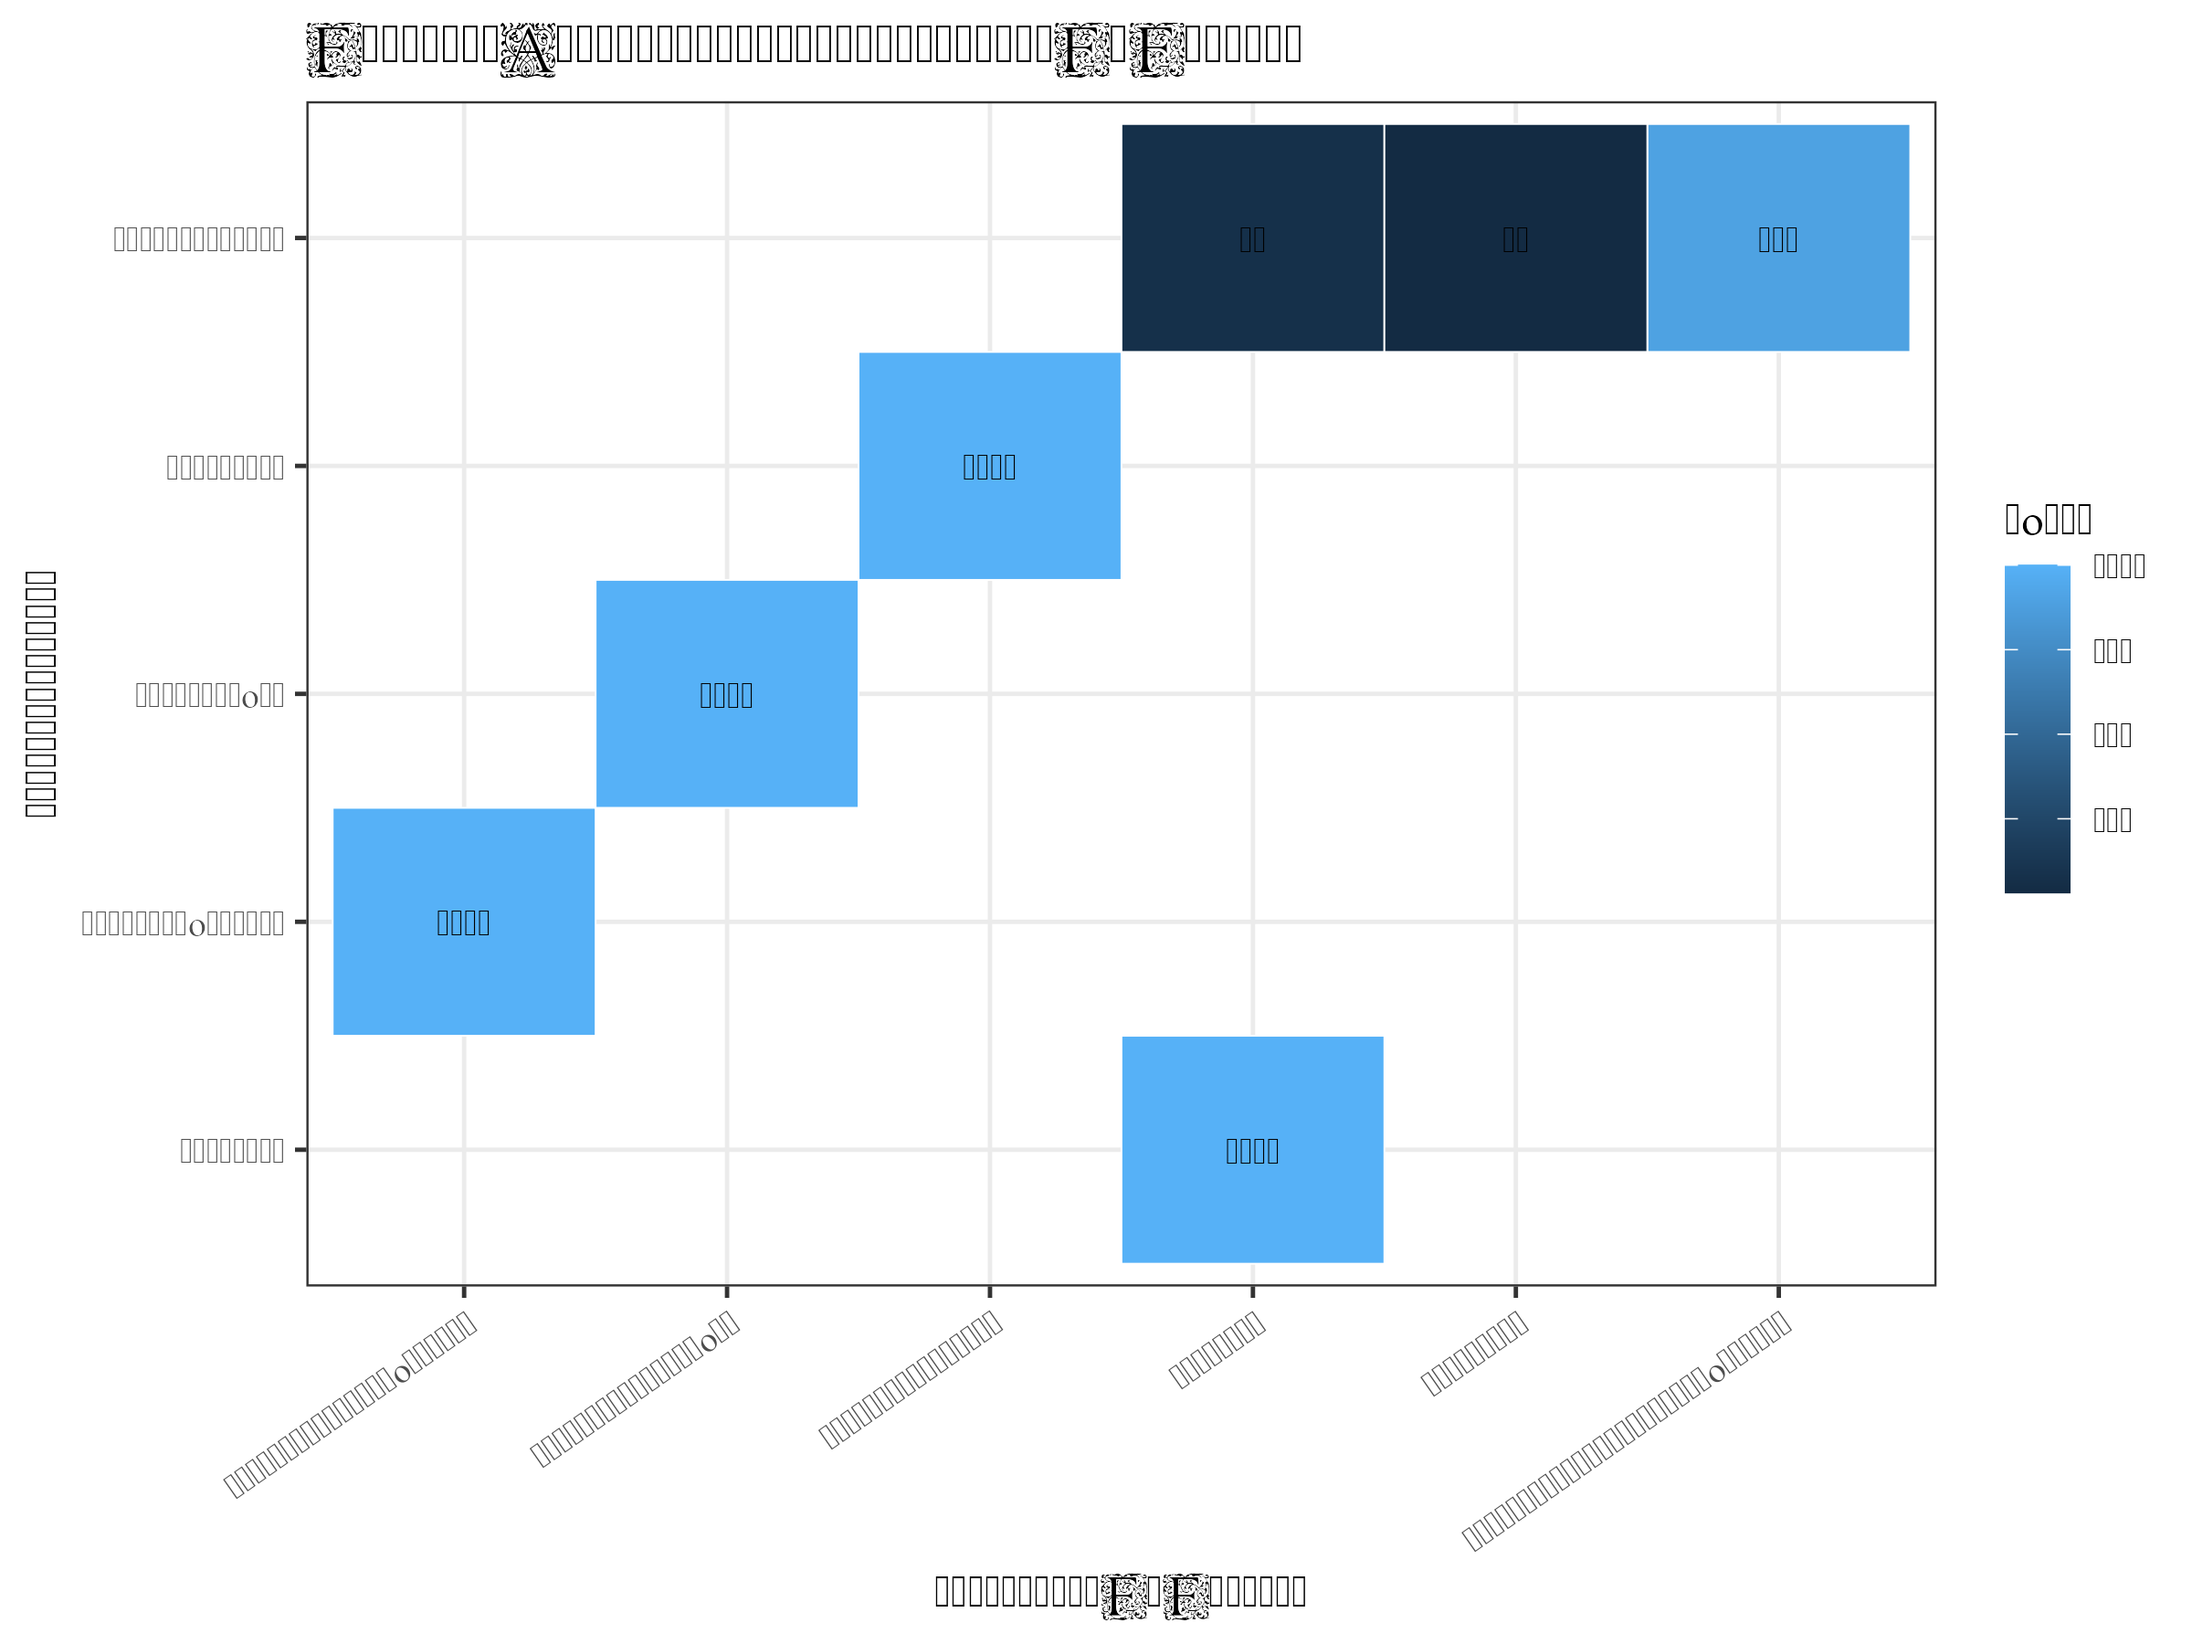
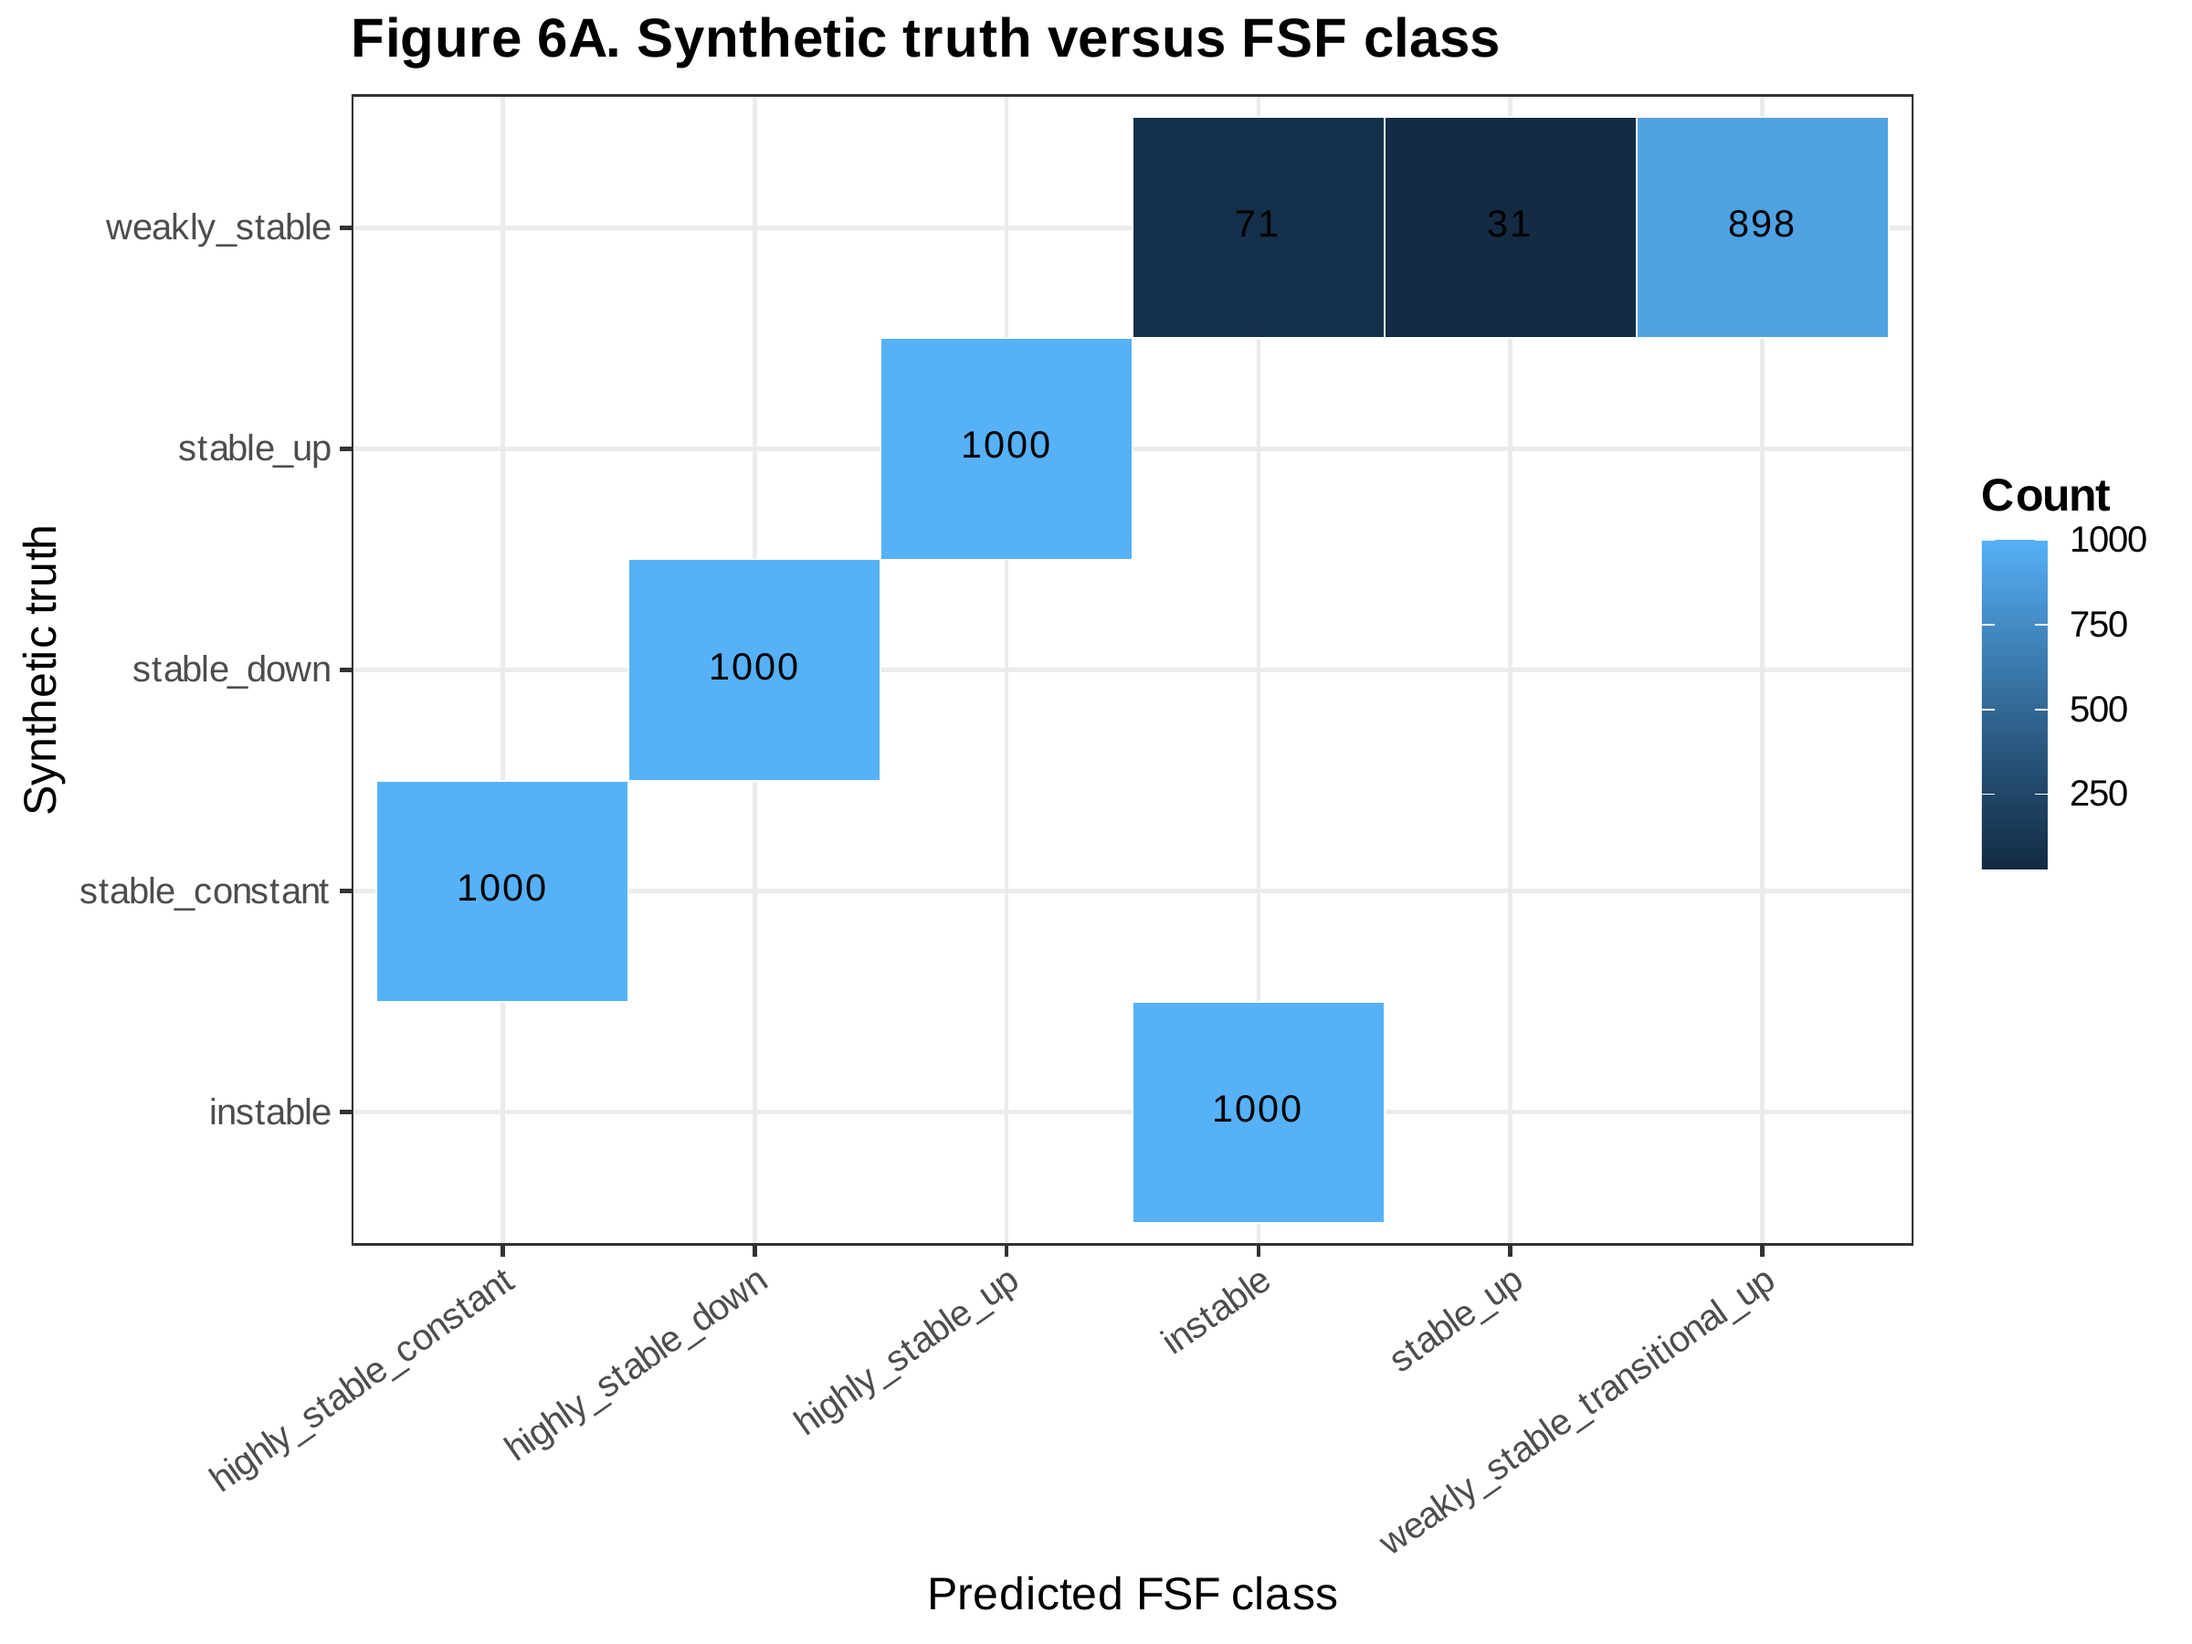
Add manuscript PDF-to-PNG conversion workflow

diff --git a/README.md b/README.md
@@ -1,49 +1,50 @@
 # FSF_SIGNAL_STRATIFICATION
 
-## Feature Signal Framework (FSF)
+# Feature Signal Framework (FSF)
 
-FSF (Feature Signal Framework) is a signal-aware feature stratification framework that characterizes feature behavior under perturbation by estimating state probabilities and deriving interpretable signal classes.
+FSF (Feature Signal Framework) is a signal-aware feature stratification framework designed to characterize feature behavior under repeated perturbations by estimating probabilistic response states and deriving interpretable stability classes.
 
-Rather than focusing solely on differential magnitude or statistical significance, FSF evaluates how consistently a feature exhibits specific response patterns across perturbations.
+Rather than focusing solely on statistical significance or effect magnitude, FSF quantifies how consistently individual features exhibit specific response patterns across perturbation experiments. The framework summarizes these behaviors using probabilistic signal states and the Signal Stratification Index (SSI), enabling biologically interpretable signal classification.
 
 ---
 
-## Conceptual Overview
+# Conceptual Overview
 
-FSF operates in four stages:
+FSF operates in four major stages:
 
 1. **Perturbation**
 
-   * Resampling
-   * Noise injection
-   * Threshold variation
+   - Resampling
+   - Noise injection
+   - Threshold variation
 
 2. **State Probability Estimation**
 
-   * P(up)
-   * P(down)
-   * P(const)
+   Estimation of
+
+   - P(Up)
+   - P(Down)
+   - P(Constant)
 
 3. **Signal Quantification**
 
-   * Signal Stratification Index (SSI)
-   * Stability Deviation (SD)
+   - Signal Stratification Index (SSI)
 
 4. **Signal Classification**
 
-   * Stable Up
-   * Stable Constant
-   * Stable Down
-   * Transitional
-   * Instable
+   - Highly stable Up
+   - Highly stable Down
+   - Highly stable Constant
+   - Transitional
+   - Instability
 
-The resulting signal classes can be interpreted biologically and aggregated to reveal condition-level signal architectures.
+The resulting feature-level signal classes can subsequently be aggregated to reveal condition-level signal architectures and biological response patterns.
 
 ---
 
-## Repository Structure
+# Repository Structure
 
-```text
+```
 config/
 docs/
 manuscript/
@@ -51,121 +52,184 @@ results/
 scripts/
 ```
 
-### Key Components
+## Directory Description
 
-#### Documentation
+### config/
 
-```text
-docs/
-```
+Project configuration files.
 
-Contains formal definitions, benchmark plans, claims, limitations, and project specifications.
+### docs/
 
-#### Analysis Pipeline
+Project documentation, conceptual notes, manuscript planning, benchmark specifications, and repository documentation.
 
-```text
-scripts/
-```
+### manuscript/
 
-Contains the complete FSF workflow, including:
+Working manuscript files (not intended as a permanent publication archive).
 
-* State assignment
-* SSI calculation
-* Stability deviation estimation
-* Synthetic benchmarking
-* Real-data analysis
-* Annotation integration
-* Enrichment analysis
-* Figure generation
+### results/
 
-#### Manuscript Outputs
+Publication-ready figures, supplementary tables, benchmark outputs, and processed manuscript results.
 
-```text
-results/manuscript/
-```
+### scripts/
 
-Contains publication-ready figures and curated summary tables.
+Complete computational workflow including
+
+- preprocessing
+- state assignment
+- SSI calculation
+- synthetic benchmarking
+- biological analyses
+- annotation integration
+- enrichment analysis
+- manuscript figure generation
 
 ---
 
-## Main Manuscript Figures
+# Main Figures
 
-### Figure 1
+## Figure 1
 
-Overview of the FSF framework and signal stratification workflow.
+Overview of the FSF workflow.
 
-### Figure 2
+## Figure 2
 
-FSF probability simplex and signal-state regions.
+Probability simplex partitioned into FSF stability regions.
 
-### Figure 3
+## Figure 3
 
-Condition-level signal architectures and signal-class composition.
+Condition-level signal architecture and signal-class composition.
 
-### Figure 4
+## Figure 4
 
-Condition-specific SSI distributions.
+SSI distributions across biological conditions.
 
-### Figure 5
+## Figure 5
 
-Biological theme distributions and condition profiles.
+Biological interpretation of signal classes.
 
-### Figure 6
+## Figure 6
 
 Synthetic benchmark validation.
 
-### Figure 7
+## Figure 7
 
-Final conceptual model.
+Conceptual interpretation model.
 
 ---
 
-## Reproducing Benchmark Results
+# Software Requirements
 
-Generate synthetic benchmark outputs:
+The analysis pipeline was developed using
+
+- R (≥ 4.5)
+- ggplot2
+- dplyr
+- tidyr
+- readr
+- data.table
+- patchwork
+- cowplot
+
+Publication-quality PNG figures are generated from vector PDF outputs using **Poppler**.
+
+## Install Poppler
+
+### Ubuntu
+
+```bash
+sudo apt install poppler-utils
+```
+
+### macOS
+
+```bash
+brew install poppler
+```
+
+### Conda
+
+```bash
+conda install -c conda-forge poppler
+```
+
+---
+
+# Reproducing Figures
+
+## Generate Figure 2
+
+```bash
+Rscript scripts/manuscript/make_figure2_simplex.R
+```
+
+The script produces the publication PDF
+
+```
+results/manuscript/figures/main/Figure2_FSF_probability_simplex_regions.pdf
+```
+
+Generate the publication PNG from the PDF
+
+```bash
+pdftoppm \
+-png \
+-r 300 \
+results/manuscript/figures/main/Figure2_FSF_probability_simplex_regions.pdf \
+results/manuscript/figures/main/Figure2_FSF_probability_simplex_regions
+
+mv \
+results/manuscript/figures/main/Figure2_FSF_probability_simplex_regions-1.png \
+results/manuscript/figures/main/Figure2_FSF_probability_simplex_regions.png
+```
+
+---
+
+# Figure Generation Policy
+
+The canonical publication figures are generated as **vector PDF** files.
+
+PNG figures are intentionally produced from the PDFs using **Poppler (`pdftoppm`)** rather than directly from R graphics devices. This ensures
+
+- consistent font rendering
+- identical appearance across operating systems
+- publication-quality rasterization
+- avoidance of Cairo/font rendering issues
+
+The PDF files should always be regarded as the authoritative figure outputs.
+
+---
+
+# Synthetic Benchmark
+
+Generate the synthetic benchmark
 
 ```bash
 bash run_fsf_v1_synthetic_benchmark.sh
 ```
 
-Generate benchmark figures:
+---
 
-```bash
-Rscript scripts/36D_generate_benchmark_figures.R
-```
+# Current Project Status
 
-Generate Figure 2:
+Current repository status
 
-```bash
-Rscript scripts/36J_rebuild_Figure2_FSF_simplex.R
-```
+**FSF manuscript preparation**
 
-Generate Figure 3:
-
-```bash
-Rscript scripts/36K_rebuild_Figure3_publication.R
-```
+This repository accompanies the development of the Feature Signal Framework (FSF) manuscript.
 
 ---
 
-## Current Status
+# Citation
 
-Repository frozen for manuscript preparation.
-
-Version:
-**FSF manuscript freeze v1.0**
+Citation information will be updated following manuscript acceptance and publication.
 
 ---
 
-## Citation
+# Author
 
-Citation information will be updated following manuscript submission and publication.
+**Dr. Sajad Shahbazi**
 
----
-
-## Author
-
-Dr. Sajad Shahbazi
-
-Adam Mickiewicz University, Poznań, Poland
-
+Department of Animal Physiology and Development  
+Faculty of Biology  
+Adam Mickiewicz University  
+Poznań, Poland
